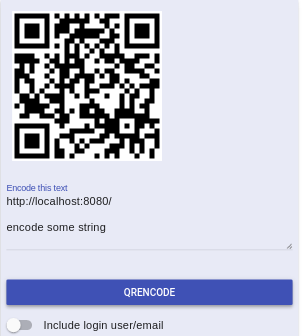
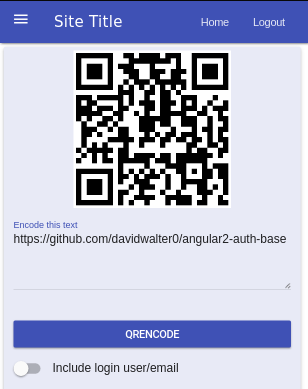
Updated qrcode image and adjusted centering for images

diff --git a/src/app/authenticated/authenticated.component.css b/src/app/authenticated/authenticated.component.css
@@ -1,58 +1,54 @@
-.qrcode {
-  object-fit: cover;
-  width: 15rem;
-  height: 15rem;
-  align: center
+img.qrcode {
+    width: 15rem;
+    height: 15rem;
+    align: center;
+    display: block;
+    margin-left: auto;
+    margin-right: auto;
 }
 
 .avatar {
-  object-fit: cover;
-  width: 3rem;
-  height: 3rem;
+    width: 3rem;
+    height: 3rem;
 }
 
 @media (min-width:320px)  { 
-/* smartphones, iPhone, portrait 480x320 phones */ 
-  .qrcode {
-    object-fit: cover;
-    width: 12rem;
-    height: 12rem;
-    align: center
-  }
+    /* smartphones, iPhone, portrait 480x320 phones */ 
+    .qrcode {
+        width: 12rem;
+        height: 12rem;
+        align: center;
+    }
 
-  .avatar {
-    object-fit: cover;
-    width: 3rem;
-    height: 3rem;
-  }
+    .avatar {
+        width: 3rem;
+        height: 3rem;
+    }
 }
 
 @media (min-width:400px)  { 
-  .qrcode {
-    object-fit: cover;
-    width: 15rem;
-    height: 15rem;
-    align: center
-  }
+    .qrcode {
+        width: 15rem;
+        height: 15rem;
+        align: center;
 
-  .avatar {
-    object-fit: cover;
-    width: 3rem;
-    height: 3rem;
-  }
+    }
+
+    .avatar {
+        width: 3rem;
+        height: 3rem;
+    }
 }
 
 @media (min-width:485px)  { 
-  .qrcode {
-    object-fit: cover;
-    width: 18rem;
-    height: 18rem;
-    align: center
-  }
+    .qrcode {
+        width: 18rem;
+        height: 18rem;
+        align: center;
+    }
 
-  .avatar {
-    object-fit: cover;
-    width: 3rem;
-    height: 3rem;
-  }
+    .avatar {
+        width: 3rem;
+        height: 3rem;
+    }
 }

diff --git a/src/app/authenticated/authenticated.component.html b/src/app/authenticated/authenticated.component.html
@@ -1,23 +1,29 @@
-<div class="mdl-card"
-     style="top: 10em; height:95%;"
-     mdl-shadow="3"
-     class="mdl-color--indigo-50 mdl-card--expand
-            mdl-cell--6-col-desktop mdl-cell mdl-cell--12-col mdl-cell--3-offset-desktop" >
-	<div class="mdl-card__title mdl-card--expand">
-    <div class="mdl-cell--7-col-phone
-                mdl-cell--8-col-tablet
-                mdl-cell--4-col-desktop"
-         *ngIf="qrtext">
-      <img class="qrcode mdl-center" src="{{url}}{{qrtext}}&size=300">
+<style>
+img.qrcode {
+        display: block;
+        margin-left: auto;
+        margin-right: auto;
+}
+</style>
+
+<div mdl-shadow="3"
+     class="mdl-card
+            mdl-card--expand
+            mdl-color--indigo-50 
+            mdl-cell
+            mdl-cell--3-offset-desktop
+            mdl-cell--6-col-desktop
+            mdl-cell--12-col-phone 
+            "
+     >
+  <div class="mdl-card__content mdl-card--expand">
+    <div *ngIf="qrtext">
+      <img class="qrcode" src="{{url}}{{qrtext}}&size=300">
     </div>
-    <div class="mdl-cell--7-col-phone
-                mdl-cell--8-col-tablet
-                mdl-cell--4-col-desktop"
-         *ngIf="!qrtext">
+    <div *ngIf="!qrtext">
       <img class="qrcode" src="src/app/sphere/favicon.ico">
     </div>
-  </div>
-  <div class="mdl-card__content mdl-card--expand">
+
     <form #subscriptionForm="ngForm">
       <div class="mdl-textfield mdl-js-textfield mdl-textfield--floating-label mdl-cell mdl-cell--12-col">
         <textarea

diff --git a/src/app/empty/empty.component.html b/src/app/empty/empty.component.html
@@ -1,9 +1,14 @@
-<mdl-card
+<div
    style="top: 10em;"
    mdl-shadow="3"
-   class="mdl-color--indigo-50 mdl-cell--12-col mdl-cell--3-offset-desktop mdl-cell--6-col-desktop" >
+   class="mdl-card
+          mdl-color--indigo-50 
+          mdl-card--expand
+          mdl-cell--12-col
+          mdl-cell--3-offset-desktop 
+          mdl-cell--6-col-desktop" >
 
-  <div class="mdl-card__content">
+  <div class="mdl-card__content mdl-card--expand">
     <div style="text-align:center;">
       <br>
       <br>
@@ -13,4 +18,4 @@
       </em>
     </div>
   </div>
-</mdl-card>
+</div>
